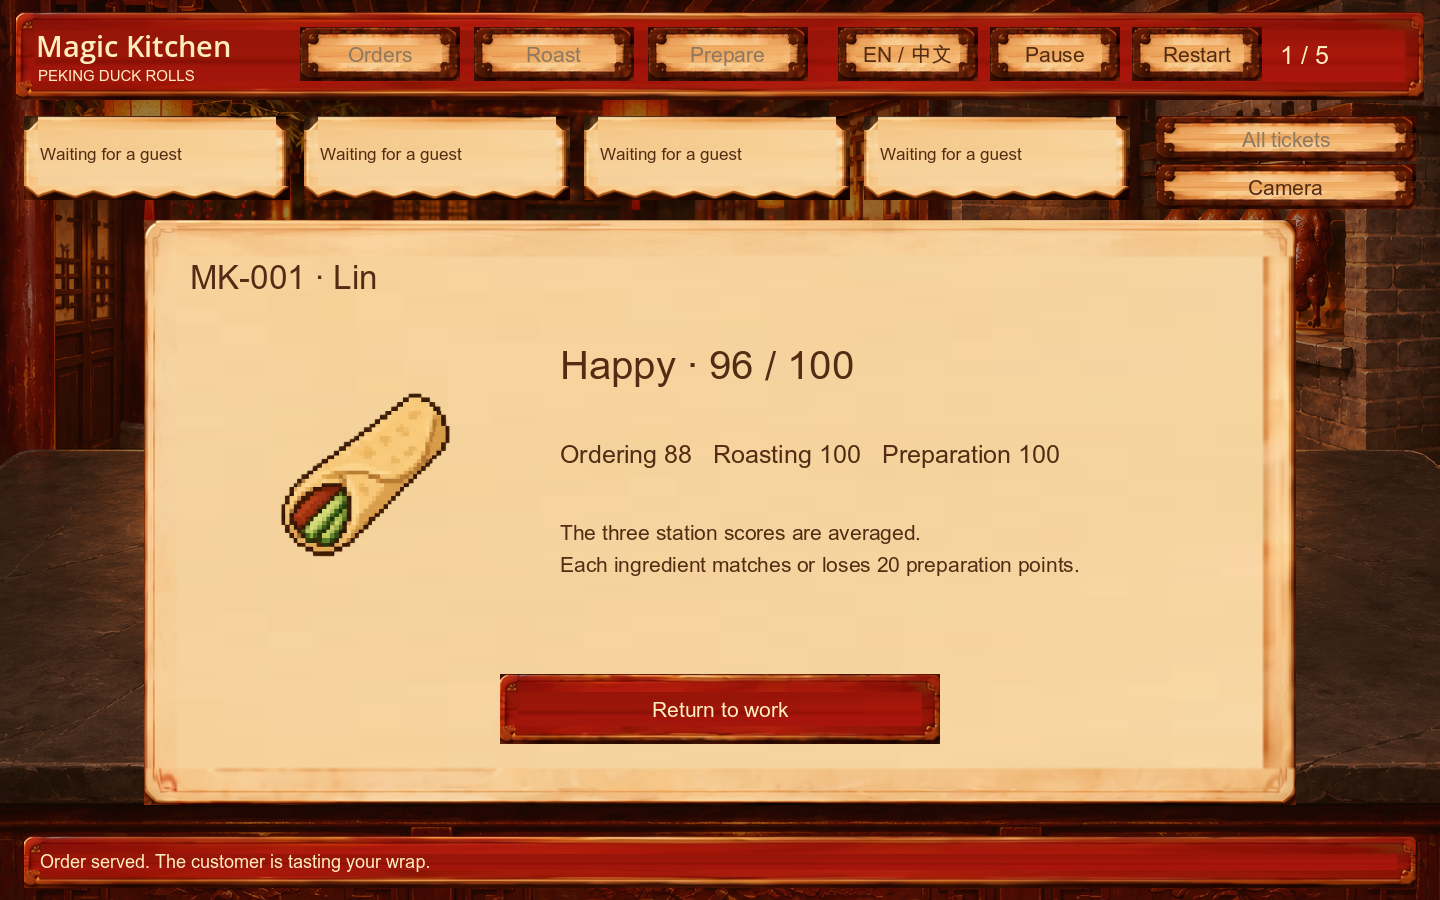
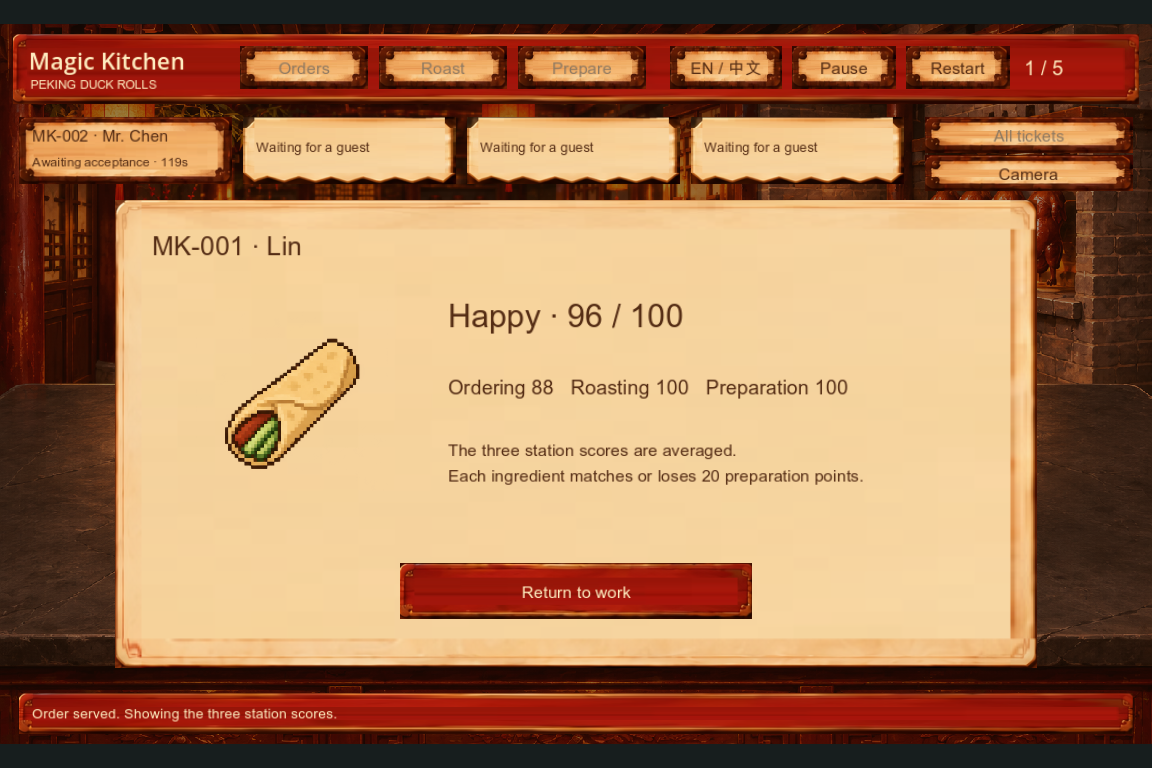
fix: clarify preparation feedback and reveal station scores

diff --git a/tools/run_game_checks.py b/tools/run_game_checks.py
@@ -15,6 +15,7 @@ SCRIPTS = [
     'tests/test_shift_ui.gd',
     'tests/test_approved_order_ui.gd',
     'tests/test_preparation_handoff.gd',
+    'tests/test_demo_feedback.gd',
 ]
 
 

diff --git a/docs/technical/SHIFT-FLOW.md b/docs/technical/SHIFT-FLOW.md
@@ -72,9 +72,9 @@ python3 -m unittest discover -s tests -v
 python3 tools/run_game_checks.py --godot /path/to/Godot
 ```
 
-Verified on macOS with Godot 4.7.2: all nine game suites passed, including 67 new flow checks and 9 UDP checks; the existing manager (38), order UI (378), legacy shift (27) and cooking checks still pass. Eight shared-flow states and eight approved-counter states were rendered and inspected. The approved-counter suite adds 20 behavior/layout checks. The camera environment imported OpenCV 4.11.0 and MediaPipe 0.10.21 and initialized the hand model against a blank frame. A project pack exported and launched successfully.
+Verified on macOS with Godot 4.7.2: all ten game suites passed, including 67 new flow checks and 9 UDP checks; the existing manager (38), order UI (378), legacy shift (27) and cooking checks still pass. Eight shared-flow states and eight approved-counter states were rendered and inspected. The approved-counter suite adds 20 behavior/layout checks. The camera environment imported OpenCV 4.11.0 and MediaPipe 0.10.21 and initialized the hand model against a blank frame. A project pack exported and launched successfully.
 
-本轮在 macOS、Godot 4.7.2 下验证：九组游戏检查通过，包括新增流程 67 项、UDP 9 项；原管理器 38 项、点单界面 378 项、旧试玩 27 项和料理检查仍通过。整合流程八种状态和定稿点单八种状态已实际渲染检查；定稿点单新增 20 项行为与布局检查。摄像头环境导入 OpenCV 4.11.0 与 MediaPipe 0.10.21，并完成模型初始化和空白帧处理；资源包已导出并成功启动。
+本轮在 macOS、Godot 4.7.2 下验证：十组游戏检查通过，包括新增流程 67 项、UDP 9 项；原管理器 38 项、点单界面 378 项、旧试玩 27 项和料理检查仍通过。整合流程八种状态和定稿点单八种状态已实际渲染检查；定稿点单新增 20 项行为与布局检查。摄像头环境导入 OpenCV 4.11.0 与 MediaPipe 0.10.21，并完成模型初始化和空白帧处理；资源包已导出并成功启动。
 
 Windows gameplay, real-camera gesture accuracy, an uncoached human playtest and tutor review remain pending. GitHub's three-platform repository checks do not substitute for those tests. The [integration handoff](INTEGRATION-HANDOFF.md) lists the specific decisions and assets still needed.
 
@@ -91,3 +91,7 @@ The shared entry now opens the green-clothed customer counter from Figma node `2
 The supplied 1440 × 900 cooking scene is integrated through `game/scenes/preparation_handoff/`. Its 25 behavior checks (31 including six screenshot saves) cover source controls, correction, order/station round trips, food layers, locking, scoring and return. Source files, runtime mappings and screenshots are in the [handoff record](../design/COOKING-HANDOFF-1125.md). Existing shared recipe-error/scoring rules remain authoritative while the planning differences are resolved.
 
 组内 1440 × 900 料理场景通过 `game/scenes/preparation_handoff/` 接入，25 项行为检查（含六张图片保存共 31 项）覆盖控件、修正、切单切站、叠层、锁定、评分返回。[交接记录](../design/COOKING-HANDOFF-1125.md)保留源文件、路径映射与截图。策划差异统一前继续采用现有共享配方失误／评分规则。
+
+The 26 November feedback pass also checks recipe-specific missing/extra hints and the five-row compact ticket for a full recipe. Scoring reveals the three station scores before the total and return unlock. `test_demo_feedback.gd` adds 17 checks, or 20 including three saved previews, without changing scoring rules.
+
+11 月 26 日反馈优化补查配方缺料／误加提示和满配小票，三站评分依次出现后再显示总分并开放返回。`test_demo_feedback.gd` 新增 17 项，含三张预览共 20 项，不改计分规则。

diff --git a/docs/technical/SERVE-SCORE-INTEGRATION.md b/docs/technical/SERVE-SCORE-INTEGRATION.md
@@ -47,7 +47,7 @@
 
 - **演示范围：** v1.1 定义单订单演示；共享程序仍是五单营业与汇总。需决定增加独立单订单入口，还是调整共享入口；本次没有更改订单数量。
 - **返回位置：** 设计希望返回触发完成按钮的工作区，可先固定料理台 / 测试入口；共享程序当前固定返回点单台。
-- **展示顺序：** 设计要求观察菜品后依次显示三站分数，最后给出结果；当前评分页同时显示分数，只限制返回时机。
+- **展示顺序（11 月 26 日已补）：** 按配置三秒分四段，依次揭示点单、烤炉、料理，最后显示综合分和档位并开放返回。分数始终读取本次交付结果，不重新计分；人物观察／表情仍待美术接入。
 - **美术与文字：** 顾客观察 / 高中低分表情、铜钱表现及 v1.1 双语评价台词，尚未按完整设计接入当前共享评分页。铜钱仍是视觉奖励要求，不新增经济系统。
 - **额外扣分：** 不自行编造多放食材的额外扣分数值，待设计与整合双方确认。
 
@@ -65,3 +65,13 @@
 本次验证范围：阅读并交叉核对设计稿、规则配置、上述两个脚本和现有测试断言；检查文档相对链接及公式示例。没有新增玩家、教师或 Sybil 审阅结论。
 
 相关入口：[整合交接](INTEGRATION-HANDOFF.md) · [共享营业流程](SHIFT-FLOW.md) · [技术目录](README.md)。
+
+## 26 November feedback polish / 11 月 26 日反馈优化
+
+评分展示已在原面板中接通，不更改公式、档位、三秒总时长、五单范围或返回点单规则。当前三秒下，0.75 秒揭示点单分、1.5 秒揭示烤炉分、2.25 秒揭示料理分、3 秒显示总分并开放返回。暂停仍冻结展示时间。中文档位也已使用中文文字。
+
+本轮 macOS／Godot 4.7.2 自动检查覆盖分数不提前泄露、顺序、提前返回禁用、最终返回和结果不变。新增反馈检查 17 项；含三张实际渲染截图共 20 项，零失败。全部十组游戏检查通过。这不表示已完成最终结算美术或真人试玩。
+
+| 展示中 | 结果展示完成 |
+| --- | --- |
+| ![逐项评分](../images/rating_station_scores.png) | ![最终评分](../images/shift_rating.png) |

diff --git a/docs/WEEKLY-PROGRESS.md b/docs/WEEKLY-PROGRESS.md
@@ -236,3 +236,13 @@ I retained the team's new cooking asset ZIP and both native handoff documents, c
 The shared imperfect-recipe policy, post-roll lock, five-order flow and counter return are unchanged pending planning agreement. I verified the rendered scene and fixed long ingredient text, correction-row spacing and the camera/feedback overlap. On macOS / Godot 4.7.2 all nine game suites passed; the new source-scene suite passed 25 checks, or 31 including six saved screenshots. No new player or live-camera trial is claimed.
 
 共享失误餐点计分、卷制后锁定、五单与回点单流程继续待策划统一，本轮不自行改口径。渲染自查修正了长食材名、修正行间距及相机／反馈重叠；macOS／Godot 4.7.2 九组游戏检查通过，新增料理场景 25 项，含六张截图保存共 31 项。不作为新增真人／相机试玩。
+
+### Integrated demo feedback polish / 整合 Demo 反馈优化
+
+I fixed the compact ticket so a full five-ingredient order does not lose its last side behind the five-row limit: the wrap icon represents the duck wrap, leaving four rows for sides. Preparation now explains acceptance, roasting/slicing prerequisites, missing ingredients, extra ingredients and the roll input. Side progress is recipe-specific and disabled controls provide a reason.
+
+我修正满配小票五行限制可能漏掉配菜的问题：鸭卷图标代表主餐，另外四行显示配菜。料理反馈明确待接单、烤制／片鸭前置、缺料、误加和卷制输入；配菜进度按当前配方计算，禁用控件附原因。
+
+I connected sequential station-score presentation to the existing three-second rating period. Total, reaction and return appear last; scoring arithmetic and lifecycle rules are unchanged. On macOS / Godot 4.7.2 all ten game suites passed, including 17 new feedback checks (20 with three rendered screenshots). No new artwork or human/live-camera validation is claimed.
+
+我把逐项评分接到原有三秒展示中，总分、档位和返回最后出现，计分及状态规则保持不变。macOS／Godot 4.7.2 十组游戏检查通过，新增反馈 17 项（含三张渲染截图共 20 项）。本轮没有新增美术，不作为真人或相机验证。

diff --git a/README.md b/README.md
@@ -37,9 +37,9 @@ Install [Godot 4.7.2 Standard](https://godotengine.org/download/archive/4.7.2-st
 
 安装 [Godot 4.7.2 Standard](https://godotengine.org/download/archive/4.7.2-stable/)，克隆或下载[项目仓库](https://github.com/sd5913/forlives--magic_kitchen)。在 Godot 项目管理器中选择 **导入**，打开 [`game/project.godot`](game/project.godot)，再点击 **运行项目**。
 
-The project now opens the shared shift. Accept a ticket, use **Roast: 1 put in, 2 take out, 3 slice**, then **Prepare: 1 duck, 2 hawthorn, 3 scallion, 4 cucumber, 5 sauce; Space to roll**. Action cards also work with a mouse. Click **Complete order** to see the scores, then return to work. Five served or expired orders finish the shift.
+The project now opens the shared shift. Accept a ticket, use **Roast: 1 put in, 2 take out, 3 slice**, then **Prepare: 1 duck, 2 hawthorn, 3 scallion, 4 cucumber, 5 sauce; Space to roll**. Action cards also work with a mouse. Click **Complete order** to reveal the three station scores in sequence; the total and return button unlock after three seconds. Five served or expired orders finish the shift.
 
-工程现在默认打开统一营业流程。接单后，在烤炉台按 **1 放入、2 取出、3 片鸭**；料理台按 **1 鸭肉、2 山楂、3 葱、4 黄瓜、5 酱，空格卷制**。也可点击动作卡和食材卡。完成订单后查看评分并返回，交付或过期共五单后结束营业。
+工程现在默认打开统一营业流程。接单后，在烤炉台按 **1 放入、2 取出、3 片鸭**；料理台按 **1 鸭肉、2 山楂、3 葱、4 黄瓜、5 酱，空格卷制**。也可点击动作卡和食材卡。完成订单后依次查看三站评分，三秒后显示总分并可返回，交付或过期共五单后结束营业。
 
 Two oven slots and up to four active tickets share one clock. Switching stations keeps progress; **Esc** pauses, and leaving the window pauses until you resume. You can fix side ingredients before rolling. An imperfect wrap still earns a score, so mistakes become part of the shift rather than a dead end.
 
